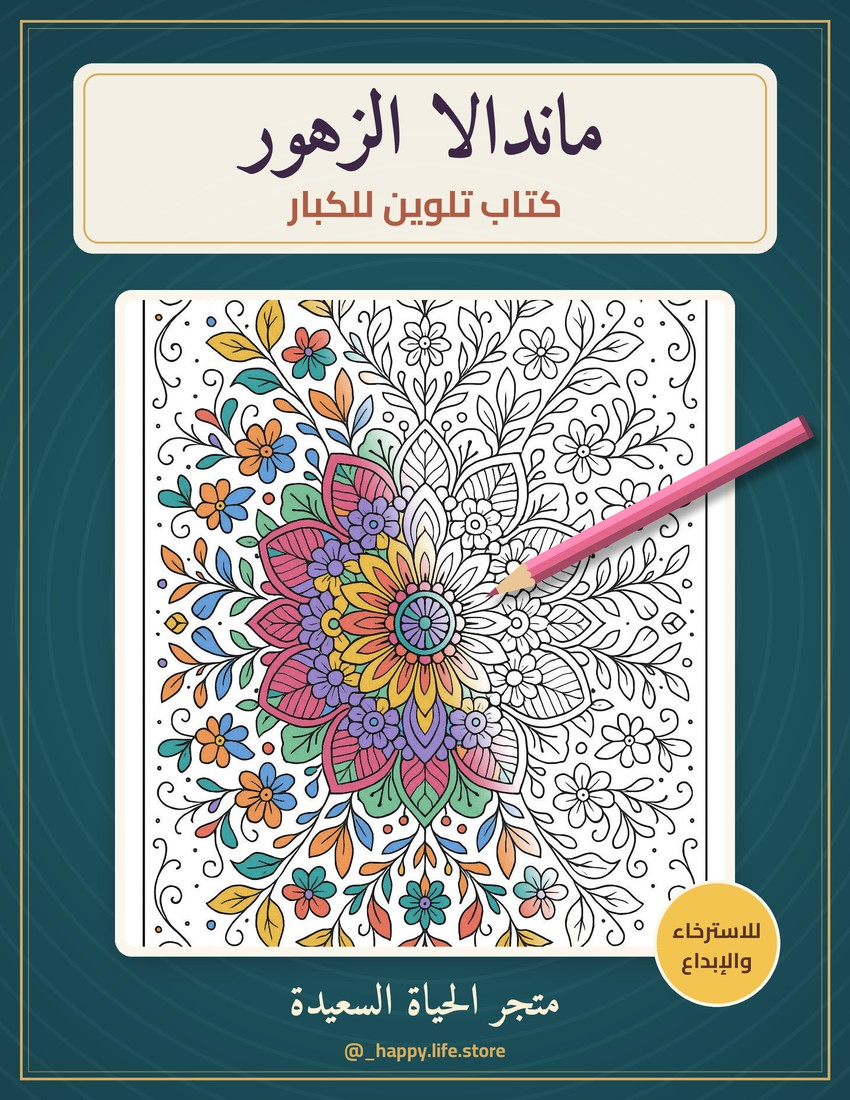
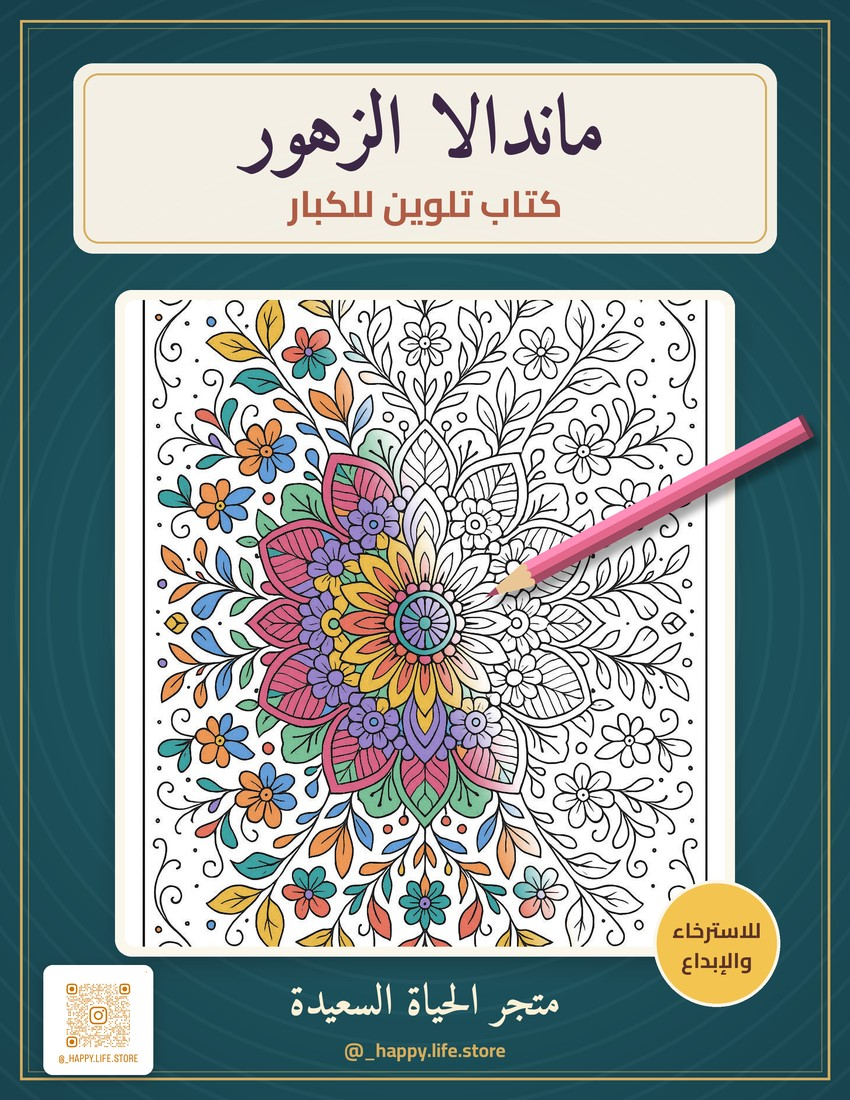
Add the Instagram QR code to the bottom-left corner of both covers
Claude-Session: https://claude.ai/code/session_01D9TXrJesAJjhQBz49Wkqns

Changed region(s): [[0.0306, 0.8655, 0.1835, 0.9891]]

diff --git a/make_cover.py b/make_cover.py
@@ -23,6 +23,7 @@ from make_video import (BOOK_SUB, BOOK_TITLE, BRIGHT, FONT_AR_BOLD, FONT_AR_DISP
 
 CW, CH = 2550, 3300            # 8.5 x 11 in at 300 dpi
 OUT = ROOT / "output" / "covers"
+QR = ROOT / "assets" / "instagram_qr.png"   # Instagram QR code for @_happy.life.store
 STORE_DIR = Path(sys.argv[1]) if len(sys.argv) > 1 else ROOT.parent / "happy_store"
 
 NATURE_TITLE = "ملاذ الطبيعة"            # Nature Escape
@@ -87,6 +88,18 @@ def paper_texture(w, h, base, seed=7, amount=10):
     return Image.fromarray(img.clip(0, 255).astype(np.uint8))
 
 
+def place_qr(canvas, x, y, size):
+    """Instagram QR code on a white rounded card, top-left corner at (x, y)."""
+    qr = Image.open(QR).convert("RGB").resize((size, size), Image.LANCZOS)
+    pad = size // 14
+    card = Image.new("RGB", (size + 2 * pad, size + 2 * pad), (255, 255, 255))
+    card.paste(qr, (pad, pad))
+    box = (x, y, x + card.width, y + card.height)
+    drop_shadow(canvas, box, 28, 18, 0.35, offset=(0, 10))
+    card = rounded(card, 28)
+    canvas.paste(card, (x, y), card)
+
+
 def text_center(d, xy, s, f, fill, **kw):
     d.text(xy, s, font=f, anchor="mm", fill=fill, **kw)
 
@@ -144,6 +157,7 @@ def cover_mandala():
     # store footer
     text_center(d, (CW / 2, 3010), STORE, font(FONT_AR_DISPLAY, 130), (252, 240, 214))
     text_center(d, (CW / 2, 3150), HANDLE, font(FONT_AR_BOLD, 58), (*gold, 255))
+    place_qr(c, 130, 2895, 290)
     return c
 
 
@@ -267,10 +281,11 @@ def cover_nature():
     place_pencil(c, (128, 200, 158), (CW / 2 - 640, 2500), 150, 900, 66)
 
     d = ImageDraw.Draw(c, "RGBA")
-    d.rounded_rectangle([520, 2780, CW - 520, 2900], 60, fill=(*green, 235))
+    d.rounded_rectangle([640, 2780, CW - 640, 2900], 60, fill=(*green, 235))
     text_center(d, (CW / 2, 2838), NATURE_BADGE, font(FONT_AR_BOLD, 66), (252, 246, 234))
     text_center(d, (CW / 2, 3040), STORE, font(FONT_AR_DISPLAY, 120), green)
     text_center(d, (CW / 2, 3160), HANDLE, font(FONT_AR_BOLD, 58), ink)
+    place_qr(c, 110, 2830, 340)
     return c
 
 
